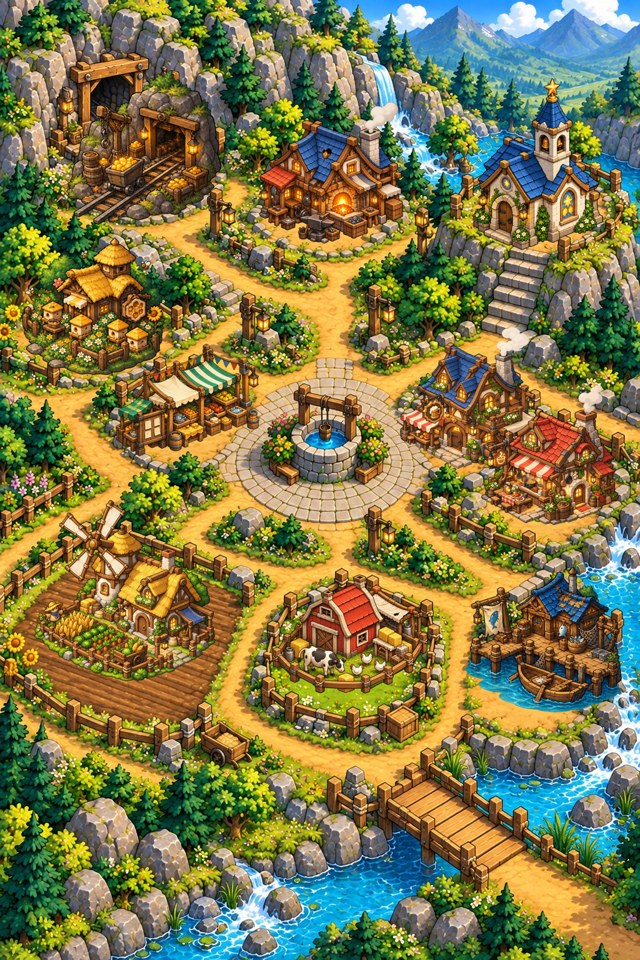
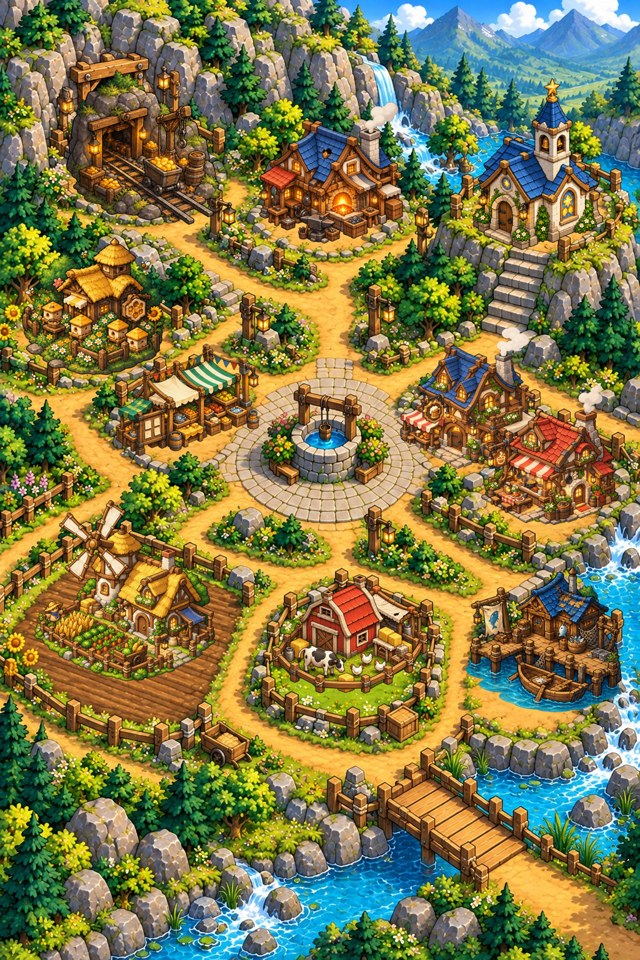
마을 지도: 광산 좌우 뒤집어 배치 (기획서·시험 그림)
Claude-Session: https://claude.ai/code/session_01ELGj6be3RhwDD9gW7oxUvT

Changed region(s): [[0.0938, 0.0625, 0.3438, 0.25]]

diff --git a/docs/content/VILLAGE.md b/docs/content/VILLAGE.md
@@ -170,7 +170,7 @@
 - 좌표(지도 그림 픽셀 기준, 건물 그림의 **가운데 아래** 점 · 폭):
 | 건물 | 자리 | 가운데 x | 바닥 y | 폭 |
 |---|---|---|---|---|
-| 광산 | 맨 위 왼쪽(갱도 입구 앞) | 230 | 360 | 250 |
+| 광산 | 맨 위 왼쪽(갱도 입구 앞) · **좌우 뒤집어 그리기** | 230 | 360 | 250 |
 | 대장간 | 맨 위 가운데 | 530 | 390 | 230 |
 | 예배당 | 맨 위 오른쪽 언덕 위(돌계단) | 860 | 400 | 210 |
 | 양봉장 | 왼쪽 위 | 150 | 600 | 230 |
@@ -181,6 +181,7 @@
 | 목장 | 아래 가운데 울타리 풀밭 | 560 | 1110 | 250 |
 | 낚시터 | 아래 오른쪽 개울가(선착장 옆) | 870 | 1140 | 250 |
 - **건물 10채 그림 모두 들어옴(2026-10-23)**. 실제 그림으로 올린 시험: `art/source/village/village_layout_built.jpg`(완성) · `village_layout_ruin.jpg`(폐허)
+- **광산은 좌우를 뒤집어 그린다**(레일이 지도 갱도 입구처럼 오른쪽 아래로 뻗게). 그림 파일은 그대로 두고 좌표표에 `flip:1`로 처리(기존 가로 마을 화면·다른 곳은 그대로).
 - 그리는 순서: 바닥 y가 작은 건물부터(깊이 순서). 여관·식당은 가까우니 겹침을 화면에서 확인해 폭·위치를 조금 조정.
 - 화면 폭 390에서 지도 배율 약 0.38 → 건물 한 채 약 80~110px, 지도 높이 약 585px.
 
